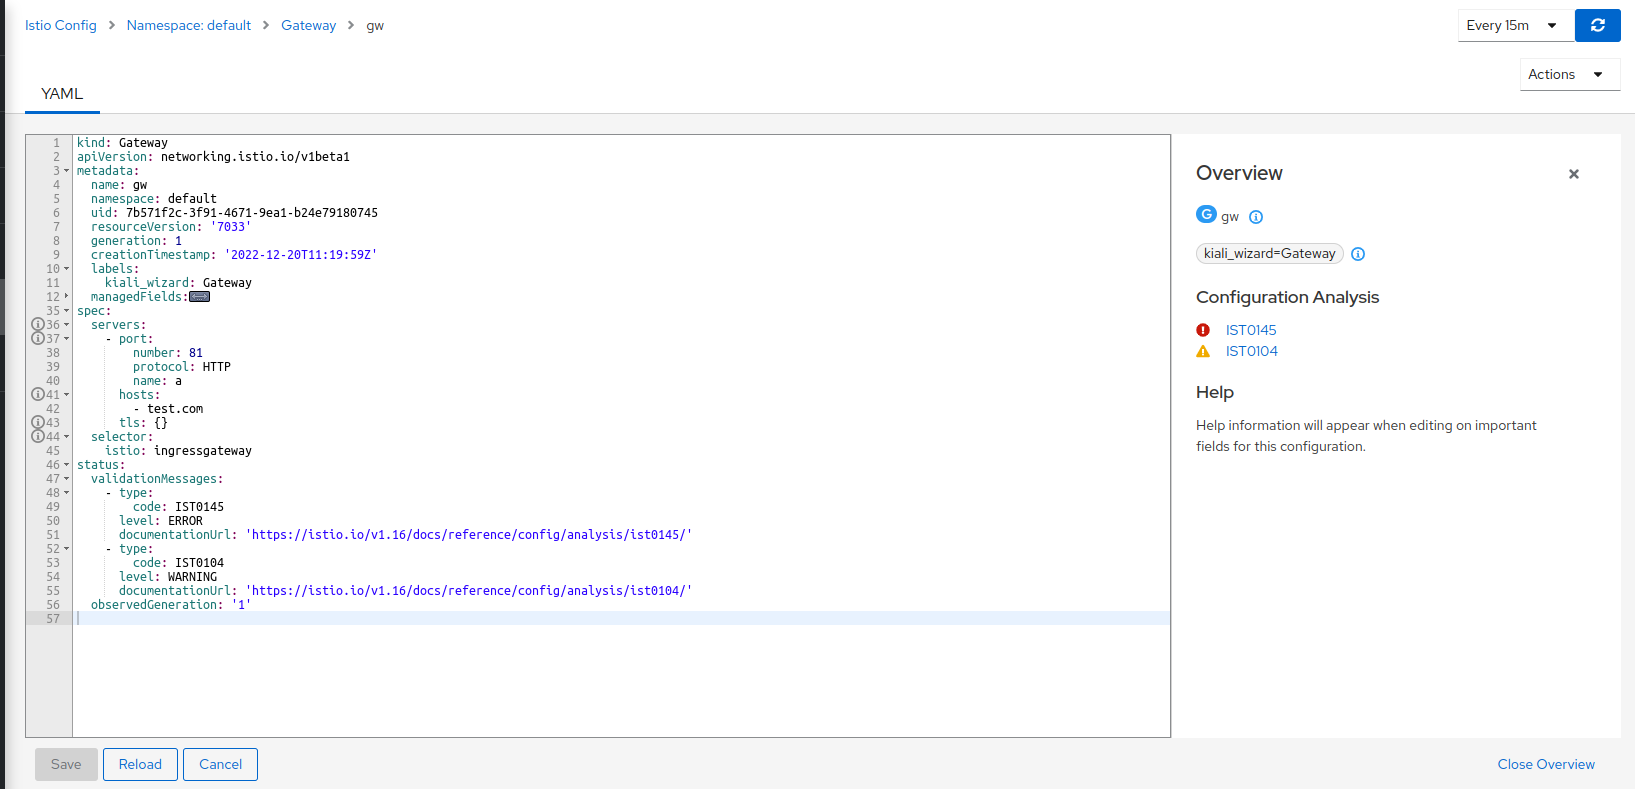
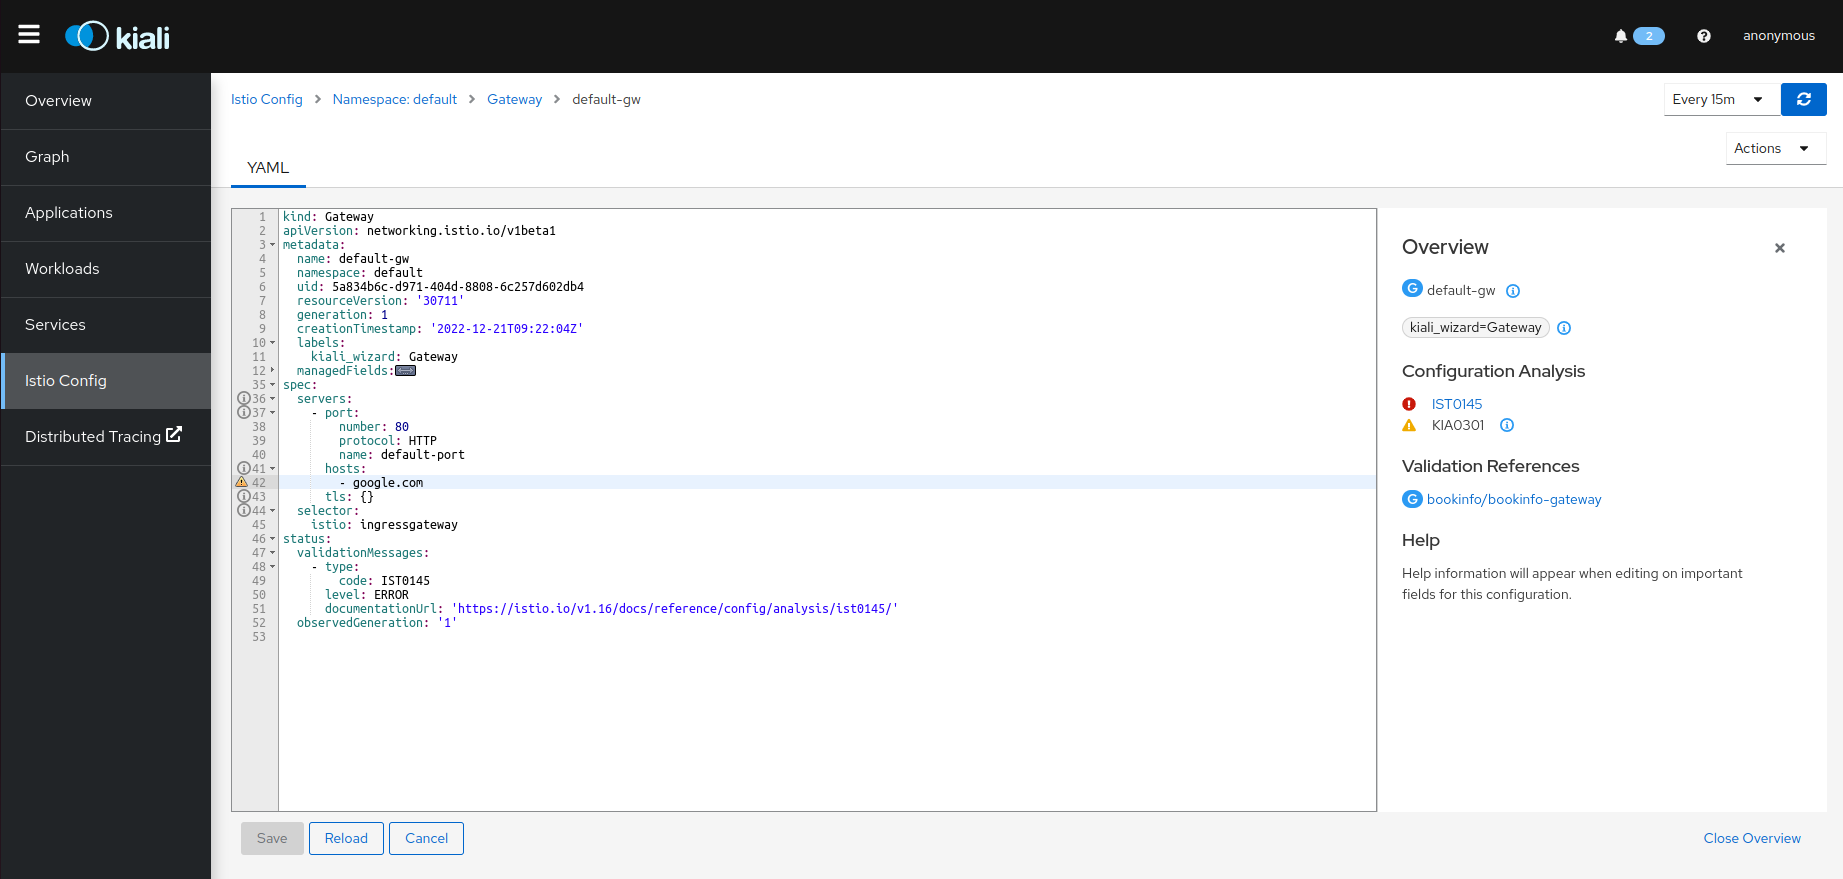
Update validations in no istiod

diff --git a/content/en/docs/Configuration/no-istiod.md b/content/en/docs/Configuration/no-istiod.md
@@ -39,10 +39,14 @@ When Istio registry is not available, there are some expected changes:
 
 ### <a name="istio_validations"></a> Istio Validations
 
-The Istio and Kiali validations won't be available as this is a logic provided by the Istio API. 
-But, if the Istio Config was created and the validatingwebhookconfiguration web hook was enabled, the validation messages will be avaible and the validations can be found:
+The Istio validations won't be available as this is a logic provided by the Istio API. 
+But, if the Istio Config was created and the validatingwebhookconfiguration web hook was enabled, the validation messages will be available and the validations can be found:
 
 <img src="/images/documentation/configuration/istio_validations.png" />
+
+Kiali validations will be available:
+
+<img src="/images/documentation/configuration/kiali_validations.png" />
 
 ### <a name="istio_registry"></a> Istio Registry Services
 
